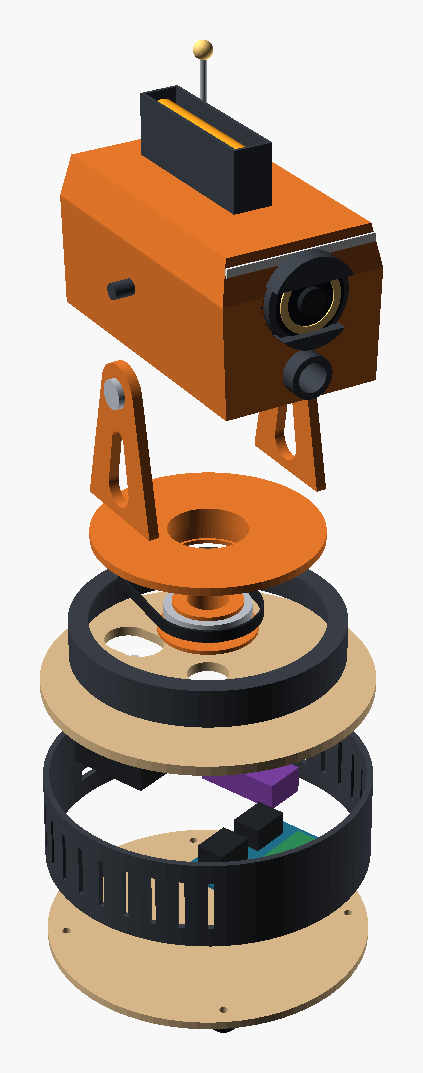
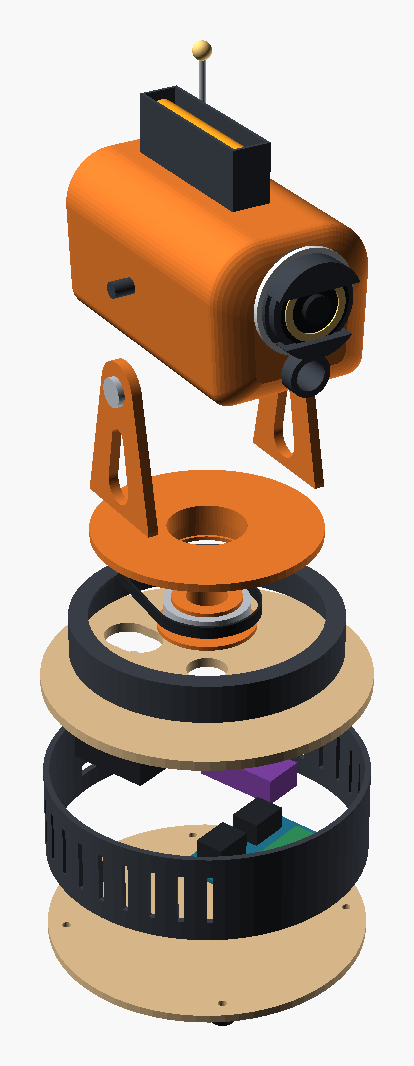
Round the cyclops head into a pod
The head is no longer a faceted box: it is a hull of elliptical sections,
with the eye mounted on a short barrel. The launcher version is a longer
pod with a flatter belly so the flywheels still fit.

Claude-Session: https://claude.ai/code/session_01UhhE4AyNSV4cwT1wmxKGh3

diff --git a/README.md b/README.md
@@ -25,8 +25,9 @@ payload (camera, sensors, foam-dart launcher) and a base that is ready to ride a
 - **Base (fixed):** pan motor, electronics and power. Flat plates for laser cutting.
 - **Turntable:** an 80-tooth pulley printed as one part, riding on a 6806 bearing
   over a hollow spigot that lets the cables through (Ø 20 mm bore).
-- **Head:** a cyclops. Its single eye has a camera for a pupil, a glowing iris and two
-  shutters that blink and squint. It tilts between two arms and is a swappable module.
+- **Head:** a cyclops. A rounded pod with a single eye on a short barrel: a camera for
+  a pupil, a glowing iris and two shutters that blink and squint. It tilts between two
+  arms and is a swappable module.
 - **Rail:** a separate module. The robot bolts to the carriage through the four
   M4 holes (100 mm square) that otherwise hold its rubber feet.
 
@@ -50,7 +51,8 @@ as they are for both the pan drive and the rail; the model is sized around them.
 ## Phases
 
 1. Base, pan and tilt with the sensor head (the default view above).
-2. Launcher head: the same face with a jaw for the flywheels and a magazine on top.
+2. Launcher head: the same face on a longer pod, with a flatter belly for the flywheels,
+   the muzzle under the eye and a magazine on top.
 3. Rail.
 
 | Launcher head | Exploded view | On the rail |
@@ -59,8 +61,8 @@ as they are for both the pan drive and the rail; the model is sized around them.
 
 ### Head studies
 
-Four heads were sketched on the same base before settling on the cyclops. The
-others are still in the model (`head_style`).
+Four heads were sketched on the same base before settling on the cyclops, which
+was then rounded into the pod above. The others are still in the model (`head_style`).
 
 ![Head options](docs/img/head-options.png)
 
